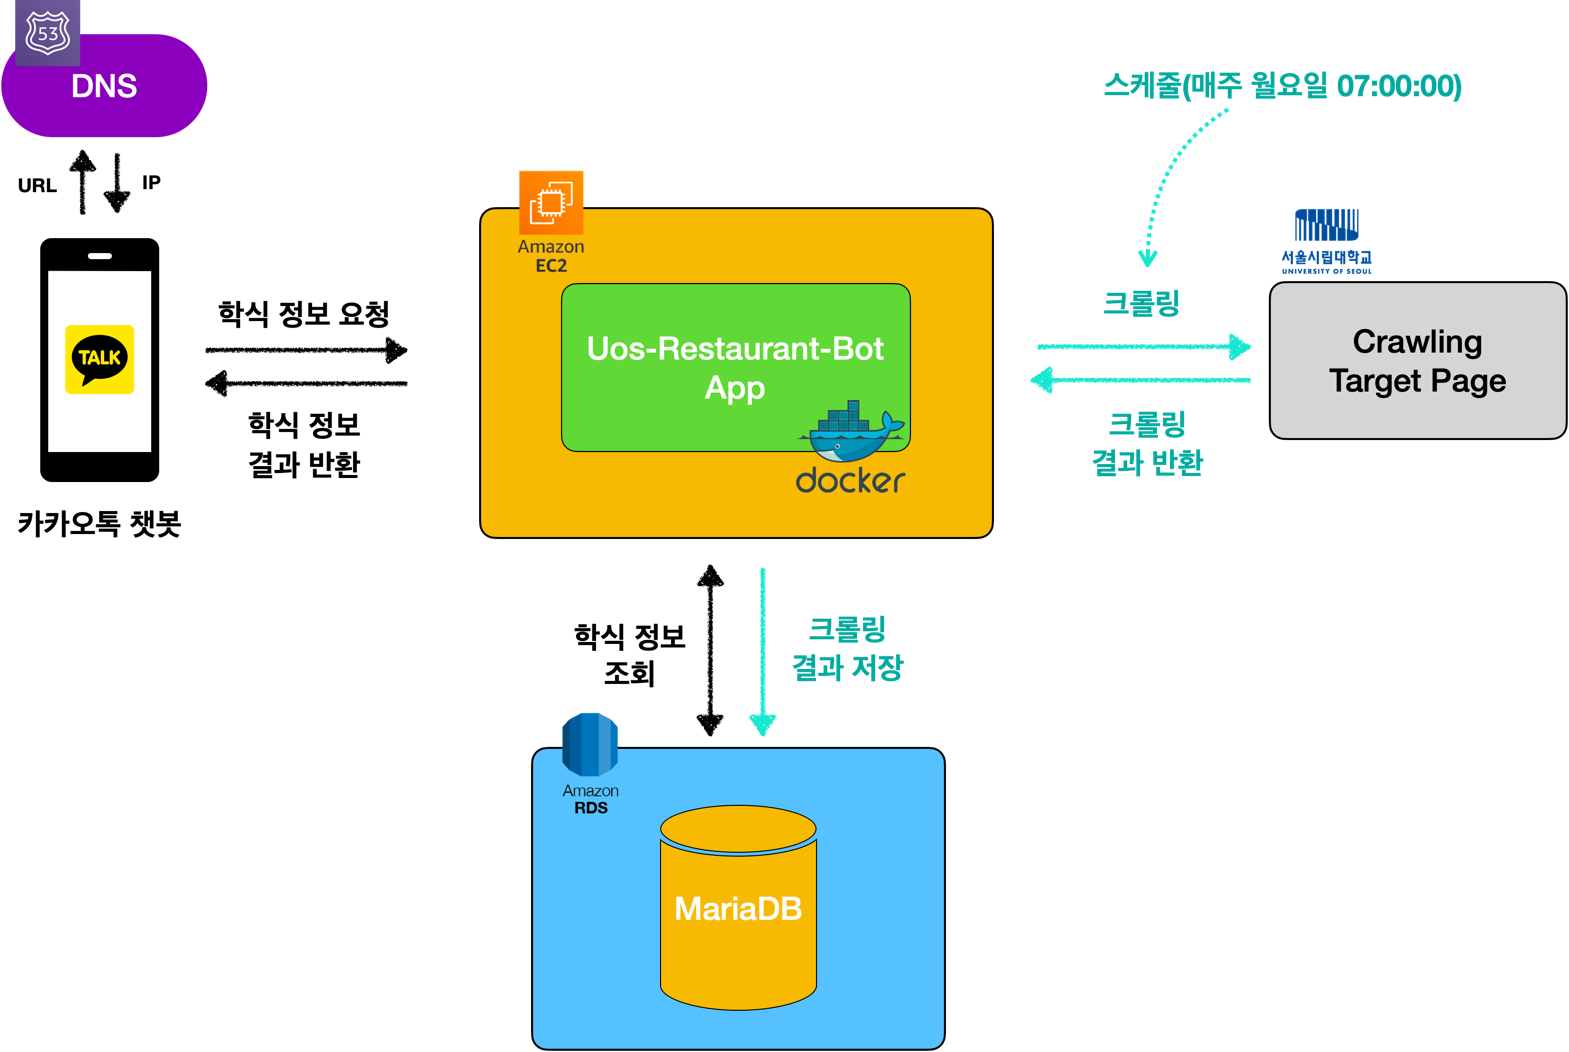
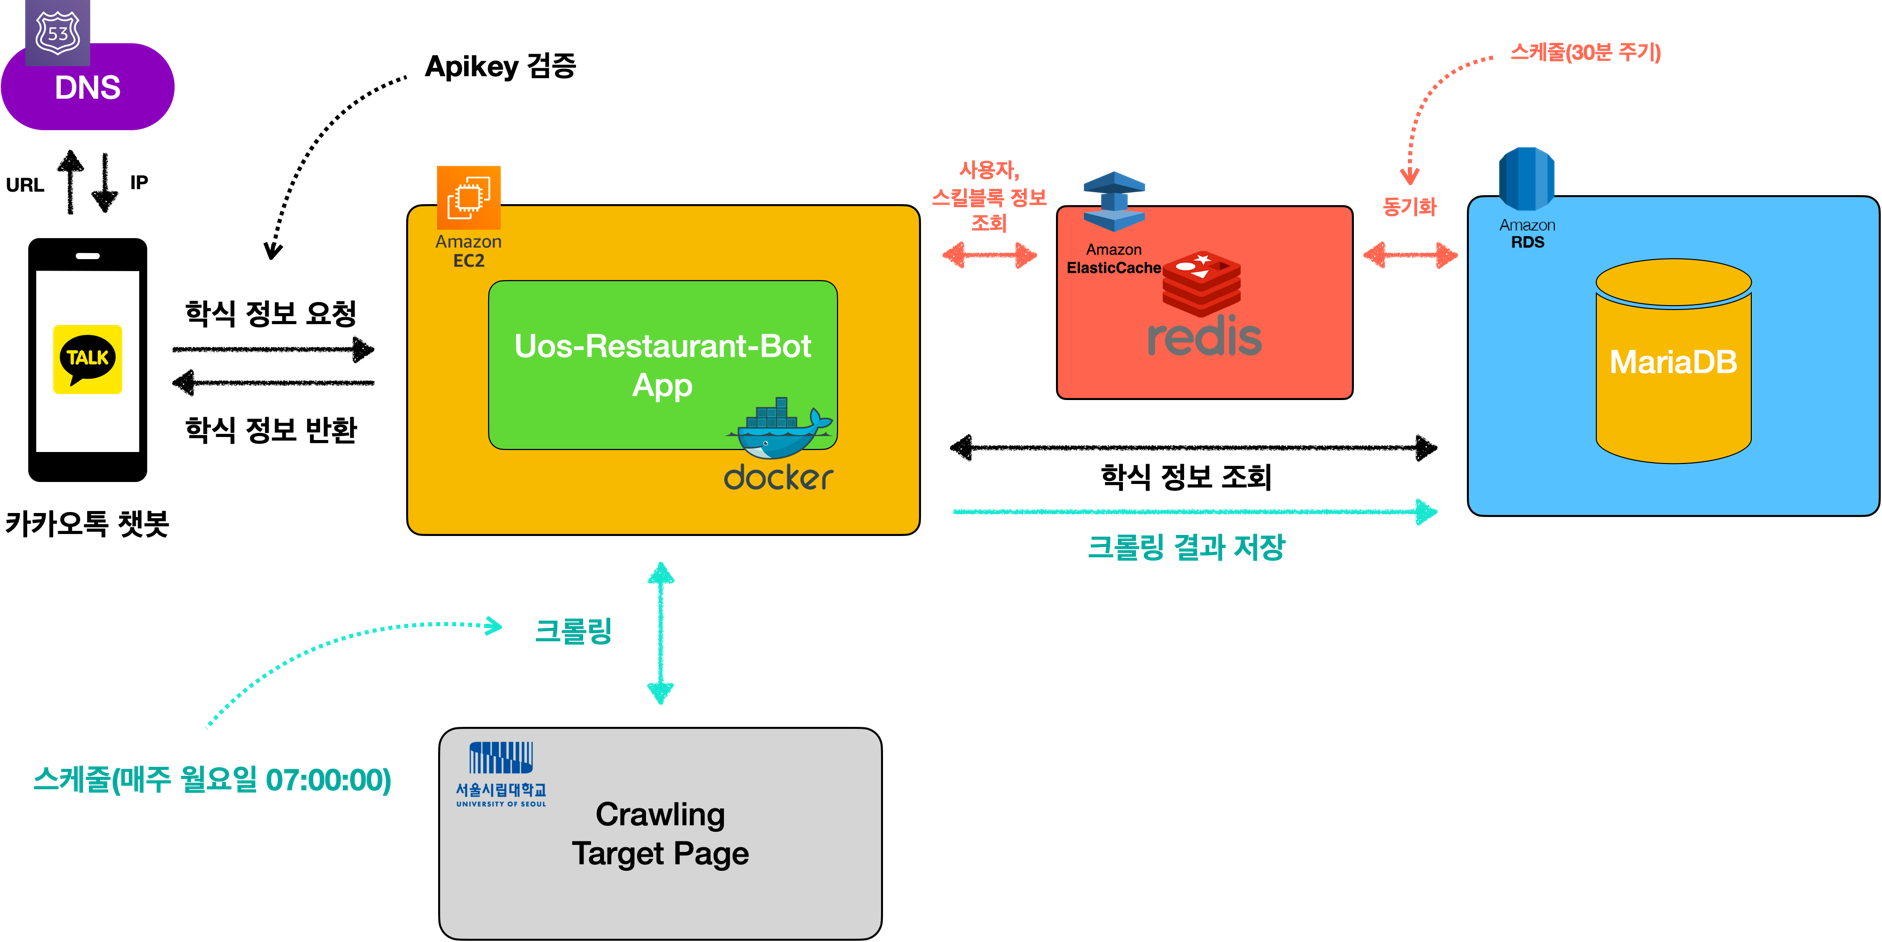
"docs": 문서 작성

diff --git a/README.md b/README.md
@@ -6,33 +6,145 @@
 ## 목차
 * 개발 동기
 * 제공 기능
+* 이슈 및 업데이트 사항
 * 시스템 구조
-* DB 구조
+* RDBMS 구조
+* 테스트 항목
+* 사용 기술
 
 ## 개발 동기
+👨🎓 졸업 전 학교와 관련된 프로젝트를 하나 만들면 좋을 것 같아 진행
+
 ## 제공 기능
+* **실시간 인기 메뉴**
+  * 시간에 따라서 아침, 점심, 저녁 인기 메뉴
+    * e.g) 현재 8:00 ~ 10:00 이면 아침 메뉴중 인기 메뉴 제공
+* **실시간 추천 메뉴**
+  * 시간에 따라서 아침, 점심, 저녁 추천 메뉴
+    *  e.g) 현재 8:00 ~ 10:00 이면 아침 메뉴중 추천 메뉴 제공
+* **식당별 식사종류에 맞는 메뉴 조회**
+  * 아침
+  * 점심
+  * 저녁
+* **메뉴 추천하기**
+  * 동일한 메뉴 중복 추천 불가
+
+## 이슈 및 업데이트 사항
+* [이슈 및 업데이트 사항](UPDATE-REPORT.md)
+
 ## 시스템 구조
 * 학교측에서 학식 메뉴에 대한 `API`를 제공하지 않기 때문에 `크롤링`하는 방법을 채택
 
 ![system-architecture.png](docs%2Fimages%2Fsystem-architecture.png)
 
 
-## DB 구조
+## RDBMS 구조
+![erd.png](docs%2Fimages%2Ferd.png)
+
+## 테스트 항목
+### 총 65개의 테스트 항목 작성
+* **TextCardUosRestaurantControllerTest**
+  * 학교식당이름과 식사종류로 메뉴를 조회할 때 진짜 메뉴를 제공받지 못했으면(e.g] 금일 학교사정상 운영안함) simpleText 형식의 예외응답을 준다.
+  * 인기메뉴 조회시 운영시간이 아닌 경우 simpleText 형식으로 예외응답을 준다.
+  * 조회수가 가장 많은 메뉴를 1개 조회한다.(조회수가 같으면 추천수가 많은 순으로 조회)
+  * 추천메뉴 조회시 운영시간이 아닌 경우 simpleText 형식으로 예외응답을 준다.
+  * 학교 식당이름과 식사종류로 메뉴를 조회하고 textCard 형식의 응답을 준다.
+  * 추천수가 가장 많은 메뉴를 1개 조회한다.(추천수가 같으면 조회수가 많은 순으로 조회)
+  * 학식 메뉴를 추천한다.
+* **CommonControllerTest**
+  * 일요일에는 학식을 제공하지 않는 안내문구를 simpleText로 응답한다.
+  * botApikey 헤더가 알맞지 않은 경우 예외가 발생한다.
+  * 토요일에는 학식을 제공하지 않는 안내문구를 simpleText로 응답한다.
+  * UosRestaurantNameTest
+  * 지원하지 않는 한글로 UosRestaurantName enum 타입을 찾으면 예외가 발생한다.
+  * 영어로 UosRestaurantName enum 타입을 찾는다.
+  * 지원하지 않는 영어로 UosRestaurantName enum 타입을 찾으면 예외가 발생한다.
+  * 한글로 UosRestaurantName enum 타입을 찾는다.
+* **CrawlingStudentHallServiceTest**
+  * 이미 크롤링한 데이터가 있으면 데이터베이스에 저장하지 않는다.
+  * 크롤링 데이터를 저장한다.
+* **MealTypeTest**
+  * 지원하지 않는 한글로 MealType enum 타입을 찾으면 예외가 발생한다.
+  * 영어로 MealType enum 타입을 찾는다.
+  * 지원하지 않는 영어로 MealType enum 타입을 찾으면 예외가 발생한다.
+  * 한글로 MealType enum 타입을 찾는다.
+* **UosRestaurantServiceTest**
+  * 저녁메뉴 중 가장 조회수가 많은 메뉴 1개를 조회한다.(조회수가 같으면 추천수가 많은 것을 조회)
+  * 저녁메뉴 중 가장 추천수가 많은 메뉴 1개를 조회한다.(추천수가 같으면 조회수가 많은 것을 조회)
+  * 금일 조식 메뉴들을 조회하고 조회수를 1증가한다.
+  * 운영시간이 아니면 조회수가 많은 메뉴 1개를 조회할때 예외가 발생한다.
+  * 점심메뉴 중 가장 조회수가 많은 메뉴 1개를 조회한다.(조회수가 같으면 추천수가 많은 것을 조회)
+  * 아침메뉴 중 가장 추천수가 많은 메뉴 1개를 조회한다.(추천수가 같으면 조회수가 많은 것을 조회)
+  * 사용자가 학식 메뉴를 추천할 때 사용자의 추천이력이 있으면 예외가 발생한다.
+  * 학교식당의 금일 조식 메뉴를 조회하고 조회수를 1증가한다.
+  * 아침메뉴 중 가장 추천수가 많은 메뉴 1개를 조회한다.(추천수가 같으면 조회수가 많은 것을 조회)
+  * 아침메뉴 중 가장 조회수가 많은 메뉴 1개를 조회한다.(조회수가 같으면 추천수가 많은 것을 조회)
+  * 학교식당의 메뉴가 없을 경우 예외가 발생한다.
+  * 운영시간이 아니면 추천수가 많은 메뉴 1개를 조회할때 예외가 발생한다.
+  * 사용자가 학식 메뉴를 추천할 때 회원이 없으면 회원이 생성되고 추천수가 1증가하고 추천이력이 생성된다.
+* **TimeProviderTest**
+  * 평일이면 false를 반환한다.
+  * 주말이면 true를 반환한다.
+* **CacheSkillBlockServiceTest**
+  * 캐시에 SkillBlock이 없으면, 캐시에 저장된다.
+  * 캐시에 SkillBlock 배열이 없으면, 캐시에 저장된다.
+* **CrawlingDateUtilsTest**
+  * 메뉴의 글자수가 25보다 작으면 false를 반환한다.
+  * 14시 ~ 6시30분 사이에는 저녁타입을 반환한다.
+  * 메뉴가 빈문자열이면 false를 반환한다.
+  * LocalDateTime을 '월/일 (요일)'로 변환한다.
+  * 오전 8시 30분 ~ 11시 사이에는 아침타입을 반환한다.
+  * 오전 11시 ~ 14시 사이에는 점심타입을 반환한다.
+* **CacheMemberServiceTest**
+  * 캐시에 회원을 저장하고, 방문횟수를 1증가 한다.
+  * 회원이 없으면 데이터베이스에 회원을 생성하고 캐시에 저장한다.
+* **StudentHallCrawlerTest**
+  * 서울시립대학교 학생회관 1층 식당 주간식단표를 크롤링 한다.
+* **SimpleTextUosRestaurantControllerTest**
+  * 학교식당이름과 식사종류 알맞은 메뉴가 없으면 예외(200)가 발생하고 simpleText 형식으로 응답을 준다.
+  * 식사종류로 메뉴들을 조회하고 simpleText 형식으로 응답을 준다.
+  * 학교식당이름과 식사종류로 메뉴를 조회하고 simpleText 형식으로 응답을 준다.
+* **OperatingTimeTest**
+  * 현재 시간이 8:00 ~ 18:29 이 아니면 운영시간이 아니다.
+  * 현재 시간이 8:00 ~ 18:29 이 아니면 운영시간이 아니다.
+  * 현재 시간이 8:00 ~ 18:29 이면 운영시간 이다.
+  * 현재 시간이 8:00 ~ 18:29 이면 운영시간 이다.
+* **UosRestaurantRepositoryTest**
+  * 날짜, 식사종류를 조건으로 식당 메뉴들을 조회한다.
+  * 식당이름, 식사종류를 조건으로 식당 메뉴를 조회한다.
+  * 날짜, 식사종류를 조건으로 조회수가 가장 많은 식사메뉴를 조회(조회수가 같을 경우 추천수 많은 순으로)
+  * 날짜, 식당이름, 식사종류를 조건으로 식당 메뉴를 조회한다.
+  * 날짜, 식사종류를 조건으로 추천수가 가장 많은 식사메뉴를 조회(추천수가 같을 경우 조회수 많은 순으로)
+* **MemberBulkInsertRepositoryTest**
+  * 1,000개의 데이터 벌크 insert
+  * JdbcTemplate를 사용하여 1,000개의 데이터 벌크 insert
+* **UosRestaurantServiceResponseConverterTest**
+  * 학식 메뉴 조회 결과를 TextCard에 추천버튼을 포함하고 QuickReplies를 포함하는 응답으로 변경할 때 추천 스킬블록이 없으면 예외가 발생한다.
+  * String을 받아 SimpleText형태로 변환한다.
+  * 학식 메뉴 조회 결과를 TextCard에 추천버튼을 포함하고 QuickReplies를 포함하는 응답으로 변경한다.
+* **SkillBlockRepositoryTest**
+  * blockName을 포함하는 SkillBlock을 조회한다.
+* **MemberServiceTest**
+  * 캐시에 있는 회원의 방문 횟수를 데이터베이스와 동기화 한다.
+
+
 ## 사용 기술
 
 <div align="center">
 <img src="https://img.shields.io/badge/java-007396?style=for-the-badge&logo=java&logoColor=white">
 <img src="https://img.shields.io/badge/junit5-25A162?style=for-the-badge&logo=junit5&logoColor=white">
-<img src="https://img.shields.io/badge/springboot-6DB33F?style=for-the-badge&logo=springboot&logoColor=white">
+<img src="https://img.shields.io/badge/spring_boot-6DB33F?style=for-the-badge&logo=springboot&logoColor=white">
 <img src="https://img.shields.io/badge/spring data jpa-6DB33F?style=for-the-badge&logo=springboot&logoColor=white">
 <br /><br />
 
 <img src="https://img.shields.io/badge/maridaDB-003545?style=for-the-badge&logo=mariadb&logoColor=white">
-<img src="https://img.shields.io/badge/H2Database-1F305F?style=for-the-badge&logo=H2DB&logoColor=white">
+<img src="https://img.shields.io/badge/H2_Database-1F305F?style=for-the-badge&logo=H2DB&logoColor=white">
+<img src="https://img.shields.io/badge/Redis-DC382D?style=for-the-badge&logo=redis&logoColor=white">
 <br /><br />
 
-<img src="https://img.shields.io/badge/amazonec2-FF9900?style=for-the-badge&logo=amazonec2&logoColor=white">
-<img src="https://img.shields.io/badge/amazonrds-527FFF?style=for-the-badge&logo=amazonrds&logoColor=white">
-<img src="https://img.shields.io/badge/docker-2496ED?style=for-the-badge&logo=docker&logoColor=white">
+<img src="https://img.shields.io/badge/amazon_ec2-FF9900?style=for-the-badge&logo=amazonec2&logoColor=white">
+<img src="https://img.shields.io/badge/amazon_rds-527FFF?style=for-the-badge&logo=amazonrds&logoColor=white">
+<img src="https://img.shields.io/badge/amazon_Elastic_Cache-4053D6?style=for-the-badge&logo=awselasticcache&logoColor=white">
+<img src="https://img.shields.io/badge/docker-2496ED?style=for-the-badge&logo=docker&logoColor ## [이슈 이력](UPDATE-REPORT.md)=white">
 </div>
 <br />

diff --git a/UPDATE-REPORT.md b/UPDATE-REPORT.md
@@ -1,4 +1,4 @@
-# 업데이트 사항
+# 이슈 및 업데이트 사항
 
 |     작성자      |          Email         |
 |:------------:|:----------------------:|
@@ -14,7 +14,7 @@
 | ✅  |  🟩 |
 
 
-## beta v1.0.0 (23/08/19 ~ )
+## beta v1.0.0 (23/08/19 ~ 09/06)
 ### 이슈 
 * ✅ **[23/08/27]** 학교에서 메뉴를 제공하지 않았을 경우가 2가지로 발생
   * **아래 1번 경우에 대해서 DB에 저장하지 않는것으로 처리하여 2번 경우와 같은 예외를 발생하도록 수정함**
